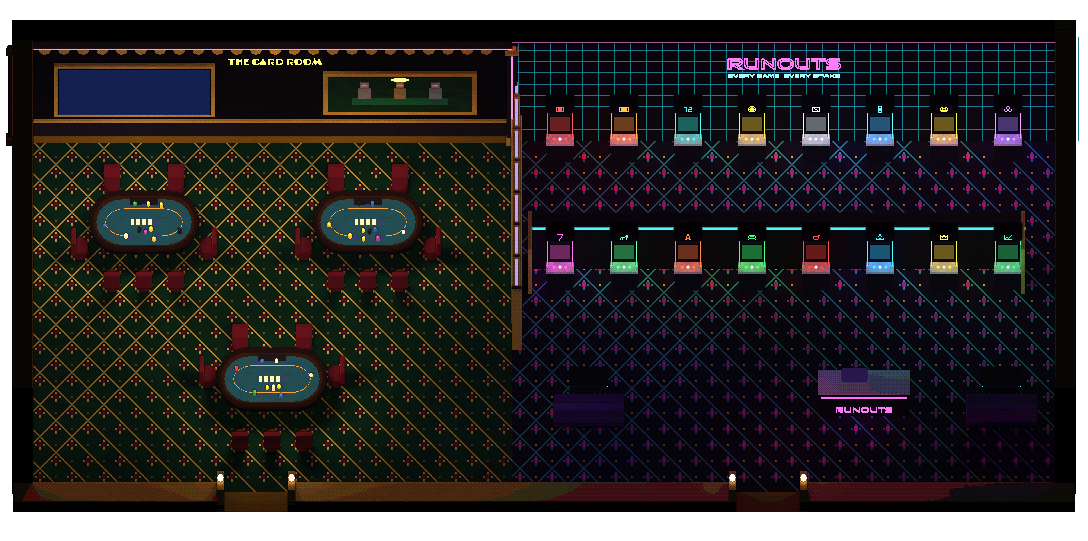
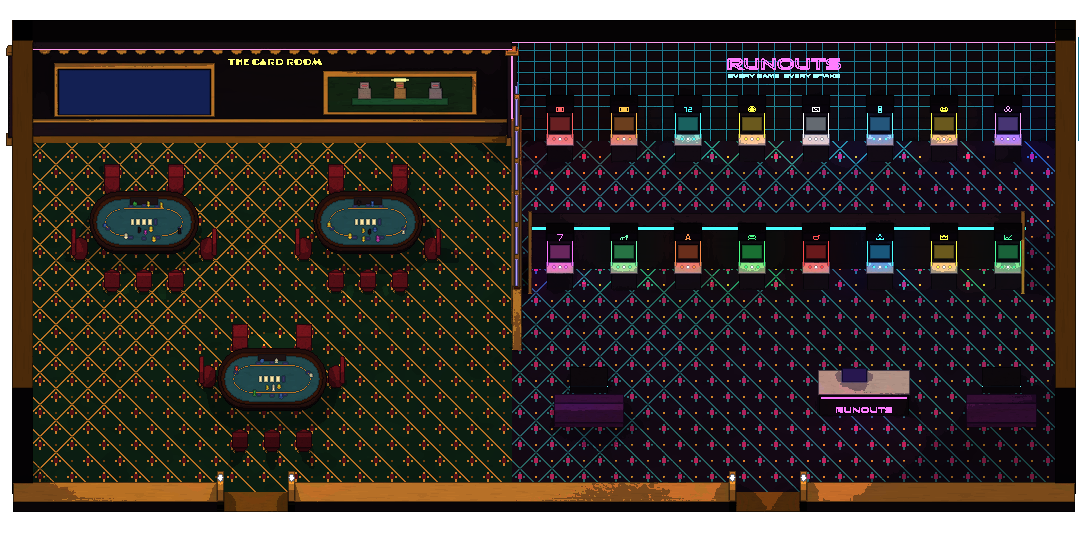
The card room and Runouts re-rendered in the toy finish: the RUNOUTS sign, the neon grid and the cabinets' trims stay lit, and both carpets lie in one warm band (the lamps lower, the room's ambient lifted) instead of breaking into dark shapes
Claude-Session: https://claude.ai/code/session_018nrKRED6mogiaY9BWcycmi

diff --git a/tools/bridge-art/scenes/arcadia_casino_cards.py b/tools/bridge-art/scenes/arcadia_casino_cards.py
@@ -50,8 +50,8 @@ for i in range(1, 9):
     grid.append((16.0, RB, i * 0.5, 33.6, RB + 0.01, i * 0.5 + 0.02))
 for i in range(36):
     grid.append((16.2 + i * 0.5, RB, 0.0, 16.22 + i * 0.5, RB + 0.01, H))
-k.boxes(grid, shade('#2a8a9a', 0.5), 'grid_line', emit=('#2a8a9a', 0.35))
-k.box(16.0, RB, H - 0.2, 33.6, RB + 0.04, H - 0.14, shade(C.PINK, 0.45), 'wall_neon', emit=(C.PINK, 0.9))
+k.boxes(grid, shade('#2a8a9a', 0.5), 'grid_line_lustre', emit=('#2a8a9a', 0.35))
+k.box(16.0, RB, H - 0.2, 33.6, RB + 0.04, H - 0.14, shade(C.PINK, 0.45), 'wall_neon_lustre', emit=(C.PINK, 0.9))
 C.side_wall(k, 0.4, 1.0, RB - 0.5, 14.0, H)
 C.side_wall(k, 33.0, 33.6, RB - 0.5, 14.0, H)
 C.front_wall(k, 0.4, 16.0, 14.0, (7.0, 9.0))
@@ -67,7 +67,7 @@ k.solid(16.0, RB, 16.3, 9.6)
 
 # ---- the Card Room -------------------------------------------------------------------------------------------------------------
 C.video_wall(k, live, 1.8, 6.6, RB, 1.3, 3.3, [(0.0, 0.0, 1.0, 1.0, 'board')])
-S.letters(k, 'THE CARD ROOM', 'Limelight', 8.6, RB + 0.1, 3.55, size=0.42, col=C.GOLD_L, energy=10)
+S.letters(k, 'THE CARD ROOM', 'Limelight', 8.6, RB + 0.1, 3.55, size=0.42, col=C.GOLD_L, energy=10, part='letters_lustre')
 k.box(10.1, RB, 1.3, 14.9, RB + 0.1, 3.1, (C.GOLD, 0.05), 'painting_frame')          # robots at cards, in oils
 k.box(10.25, RB + 0.1, 1.45, 14.75, RB + 0.11, 2.95, ('#14321e', 0.15), 'painting')
 k.box(11.0, RB + 0.11, 1.75, 14.0, RB + 0.12, 2.05, ('#1d6a46', 0.1), 'painting_table')
@@ -95,8 +95,8 @@ for (x, r) in ((4.5, 9.0), (12.5, 9.5), (2.5, 12.0), (14.5, 12.5)):
     k.point_light(x, r, 2.4, '#ffd0a0', 14, radius=0.6)
 
 # ---- the Runouts lounge ------------------------------------------------------------------------------------------------------------
-S.neon(k, 'RUNOUTS', 'Audiowide', 24.5, RB + 0.04, 3.3, size=0.8, col='#ff60d0', tube=0.026, energy=24)
-S.letters(k, 'EVERY GAME  EVERY STAKE', 'ZenDots', 24.5, RB + 0.04, 2.9, size=0.22, col=Y.CYAN_L, energy=4)
+S.neon(k, 'RUNOUTS', 'Audiowide', 24.5, RB + 0.04, 3.3, size=0.8, col='#ff60d0', tube=0.026, energy=24, part='neon_lustre')
+S.letters(k, 'EVERY GAME  EVERY STAKE', 'ZenDots', 24.5, RB + 0.04, 2.9, size=0.22, col=Y.CYAN_L, energy=4, part='letters_lustre')
 CAB = []
 for i, (mode, label) in enumerate(MODES[:8]):
     x = 17.5 + i * 2.0
@@ -104,7 +104,7 @@ for i, (mode, label) in enumerate(MODES[:8]):
     CAB.append((int(x), 3, mode, label))
 k.box(16.6, 6.7, 0.0, 32.0, 7.0, 1.9, (C.LACQUER, 0.05), 'island_spine')     # open at the east end: the way round to the back row
 k.box(16.55, 6.65, 1.9, 32.05, 7.05, 1.96, (C.LACQUER_L, 0.05), 'island_cap')
-k.box(16.55, 7.02, 1.8, 32.05, 7.06, 1.86, shade('#2a8a9a', 0.5), 'island_neon', emit=('#40c8d8', 0.9))
+k.box(16.55, 7.02, 1.8, 32.05, 7.06, 1.86, shade('#2a8a9a', 0.5), 'island_neon_lustre', emit=('#40c8d8', 0.9))
 for xx in (16.5, 31.9):
     k.box(xx, 6.6, 0.0, xx + 0.12, 7.8, 2.0, (C.GOLD, 0.05), 'island_end')
 k.solid(16.6, 6.7, 32.0, 7.0)
@@ -115,23 +115,25 @@ for i, (mode, label) in enumerate(MODES[8:]):
 # the Runouts desk, Kit behind it; sofas; a stool at each cabinet
 k.box(25.6, 10.95, 0.0, 28.4, 11.6, 1.0, (C.LACQUER, 0.05), 'desk', bevel=0.03)
 k.box(25.55, 10.9, 1.0, 28.45, 11.65, 1.06, ('#c8ccd8', 0.04), 'desk_top')
-k.box(25.65, 11.6, 0.8, 28.35, 11.62, 0.86, shade('#ff60d0', 0.45), 'desk_neon', emit=('#ff60d0', 0.85))
+k.box(25.65, 11.6, 0.8, 28.35, 11.62, 0.86, shade('#ff60d0', 0.45), 'desk_neon_lustre', emit=('#ff60d0', 0.85))
 k.poly([(26.3, 11.1, 1.42), (27.1, 11.1, 1.42), (27.1, 11.3, 1.06), (26.3, 11.3, 1.06)], '#081020', 'desk_screen', emit=('#2a1a4a', 0.8))
 live.screens.append([26.35, round(11.1 - 1.42 * C.C45, 3), 27.05, round(11.3 - 1.06 * C.C45, 3), 'runouts:hall'])
-S.letters(k, 'RUNOUTS', 'Audiowide', 27.0, 11.62, 0.22, size=0.4, col='#ff60d0', energy=3)
+S.letters(k, 'RUNOUTS', 'Audiowide', 27.0, 11.62, 0.22, size=0.4, col='#ff60d0', energy=3, part='letters_lustre')
 k.solid(25.6, 10.95, 28.4, 11.6)
 for (x0, r) in ((17.3, 11.2), (30.2, 11.2)):
     k.box(x0, r, 0.0, x0 + 2.2, r + 0.75, 0.42, ('#3a1450', 0.1), 'sofa', bevel=0.04)
     k.box(x0, r + 0.6, 0.3, x0 + 2.2, r + 0.85, 0.9, ('#4a1a64', 0.1), 'sofa_back', bevel=0.04)
     k.box(x0 + 0.5, r - 0.9, 0.0, x0 + 1.7, r - 0.3, 0.36, (C.LACQUER, 0.05), 'low_table', bevel=0.02)
-    k.box(x0 + 0.5, r - 0.33, 0.3, x0 + 1.7, r - 0.3, 0.33, shade(Y.CYAN, 0.45), 'low_table_neon', emit=(Y.CYAN, 0.8))
+    k.box(x0 + 0.5, r - 0.33, 0.3, x0 + 1.7, r - 0.3, 0.33, shade(Y.CYAN, 0.45), 'low_table_neon_lustre', emit=(Y.CYAN, 0.8))
     k.solid(x0, r, x0 + 2.2, r + 0.85)
     k.solid(x0 + 0.5, r - 0.9, x0 + 1.7, r - 0.3)
 for (x, r, c) in ((19.0, 5.2, '#ff60d0'), (24.5, 5.2, Y.CYAN), (30.0, 5.2, '#ff60d0'), (21.0, 9.5, Y.PURP), (28.0, 9.5, Y.CYAN),
                   (24.5, 12.5, '#ff60d0'), (31.0, 9.0, Y.CYAN), (18.0, 12.0, Y.PURP)):
     k.point_light(x, r, 2.6, c, 24, radius=0.6, group='flicker')
-k.render(OUT, light_states={'full': {'flicker': 1.0, 'pulse': 1.0}, 'dim': {'flicker': 0.85, 'pulse': 0.5}},
-         light_samples=128, world_light=('#22142c', 0.42))
+k.render(OUT, light_states={'full': {'flicker': 1.0, 'pulse': 1.0, '_art': 0.5}, 'dim': {'flicker': 0.85, 'pulse': 0.5, '_art': 0.5}},
+         light_samples=128, world_light=('#584436', 1.9))
+# (every lamp at half and the room's ambient lifted to a warm amber, so both carpets lie in one band of the toy finish
+# instead of breaking into dark shapes where the bands' edges fell across them)
 
 # ---- the world ---------------------------------------------------------------------------------------------------------------
 P = 'PRESS E TO PLAY'
